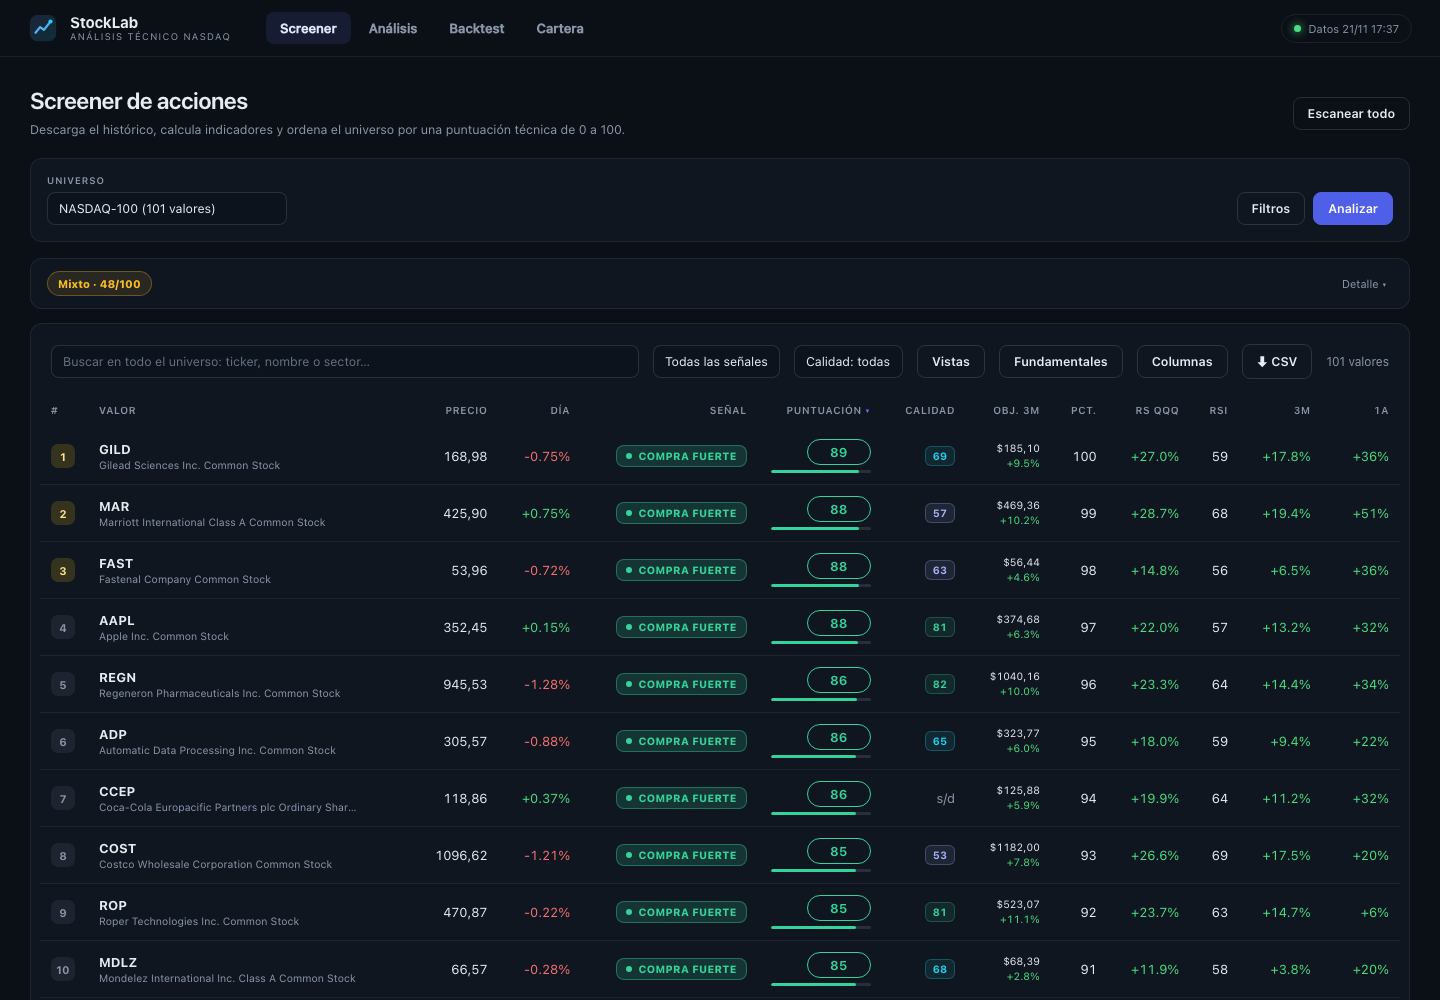
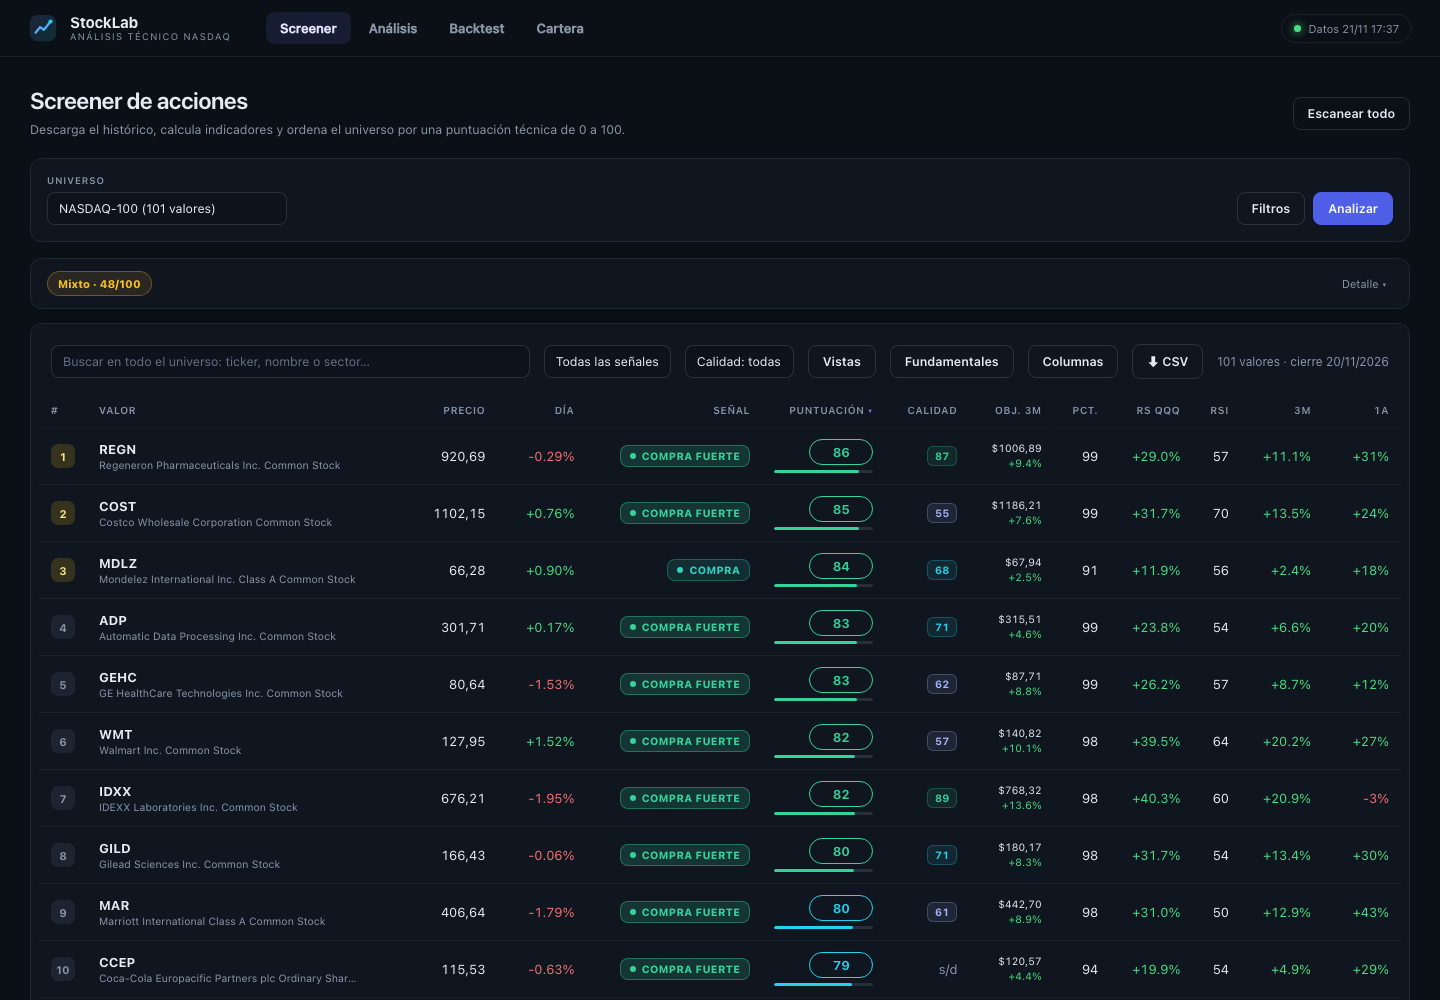
Screener: show latest cached price and date, not the old scan snapshot
- Overlay score_cache by symbol when serving latest/all/find/export rows
- Keep live scans untouched to avoid same-day rollback
- Show 'cierre DD/MM/YYYY' in the results toolbar and explain price/day columns
- Add regression test for stale-vs-fresh rows

diff --git a/web/app.js b/web/app.js
@@ -1095,16 +1095,21 @@
       }
     });
 
+    const asOf = rows.reduce(
+      (latest, row) => (row.as_of && row.as_of > latest ? row.as_of : latest),
+      ""
+    );
+    const asOfText = asOf ? ` · cierre ${fmt.date(asOf)}` : "";
     if (state.searching) {
       $("#resultsCount").textContent = "buscando en todo el universo…";
     } else if (state.search && state.searchTotal > rows.length) {
-      $("#resultsCount").textContent = `Top ${nf0.format(rows.length)} de ${nf0.format(state.searchTotal)} coincidencias`;
+      $("#resultsCount").textContent = `Top ${nf0.format(rows.length)} de ${nf0.format(state.searchTotal)} coincidencias${asOfText}`;
     } else if (!rows.length) {
       $("#resultsCount").textContent = "";
     } else if (!state.loadedAll && state.screenTotal > state.rows.length && !state.search) {
-      $("#resultsCount").textContent = `Top ${nf0.format(state.rows.length)} de ${nf0.format(state.screenTotal)}`;
+      $("#resultsCount").textContent = `Top ${nf0.format(state.rows.length)} de ${nf0.format(state.screenTotal)}${asOfText}`;
     } else {
-      $("#resultsCount").textContent = `${nf0.format(rows.length)} valores`;
+      $("#resultsCount").textContent = `${nf0.format(rows.length)} valores${asOfText}`;
     }
     $("#loadAll").classList.toggle(
       "hidden",

diff --git a/web/index.html b/web/index.html
@@ -189,8 +189,8 @@
             <tr>
               <th class="col-rank">#</th>
               <th data-sort="symbol">Valor</th>
-              <th data-sort="price" class="num">Precio</th>
-              <th data-sort="change_pct" class="num">Día</th>
+              <th data-sort="price" class="num" title="Último cierre disponible; no es precio en vivo">Precio</th>
+              <th data-sort="change_pct" class="num" title="Variación del último cierre frente al anterior">Día</th>
               <th data-sort="action_rank" class="num">Señal</th>
               <th data-sort="score" class="num sorted-desc">Puntuación</th>
               <th data-sort="quality" class="num" title="Score fundamental 0-100. — = sin enriquecer; s/d = sin datos">Calidad</th>

diff --git a/stocklab/screener.py b/stocklab/screener.py
@@ -554,16 +554,40 @@ class ScreenerService:
             if run.get("status") in ("done", "cancelled") and run["universe"] not in self._latest:
                 self._latest[run["universe"]] = run["id"]
 
+    def refresh(self, rows: list[dict[str, Any]]) -> list[dict[str, Any]]:
+        """Superpone la última caché por símbolo a una foto de escaneo antigua."""
+        if not rows:
+            return rows
+        cached = store.get_cached_scores([row.get("symbol") or "" for row in rows])
+        out: list[dict[str, Any]] = []
+        for row in rows:
+            fresh = cached.get((row.get("symbol") or "").upper())
+            current_as_of = row.get("as_of") or ""
+            fresh_as_of = (fresh or {}).get("as_of") or ""
+            if fresh and fresh_as_of >= current_as_of:
+                merged = dict(row)
+                merged.update(fresh)
+                merged["symbol"] = row.get("symbol") or fresh.get("symbol")
+                out.append(merged)
+            else:
+                out.append(row)
+        return out
+
     def latest(self, universe: str) -> dict[str, Any] | None:
         run_id = self._latest.get(universe)
         if not run_id:
             return None
         job = self.jobs.get(run_id)
         if job:
-            return job.snapshot()
+            snapshot = job.snapshot()
+            if job.status != "running":
+                snapshot["rows"] = self.refresh(snapshot["rows"])
+                snapshot["action_counts"] = action_counts(snapshot["rows"])
+            return snapshot
         run = self._restored.get(run_id)
         if not run:
             return None
+        rows = self.refresh(run["rows"][:500])
         return {
             "id": run["id"],
             "universe": run["universe"],
@@ -574,8 +598,8 @@ class ScreenerService:
             "errors": run["errors"],
             "created_at": run["created_at"],
             "finished_at": run["finished_at"],
-            "rows": run["rows"][:500],
-            "action_counts": action_counts(run["rows"]),
+            "rows": rows,
+            "action_counts": action_counts(rows),
             "regime": run.get("regime") or {},
             "elapsed": 0,
             "eta": 0,
@@ -645,7 +669,7 @@ class ScreenerService:
         job.total = run.get("total") or len(run.get("rows") or [])
         job.done = run.get("done") or len(run.get("rows") or [])
         job.errors = run.get("errors") or 0
-        job.rows = list(run.get("rows") or [])
+        job.rows = self.refresh(list(run.get("rows") or []))
         job.created_at = run.get("created_at") or job.created_at
         job.finished_at = run.get("finished_at")
         job.enrich_status = "idle"

diff --git a/stocklab/api.py b/stocklab/api.py
@@ -185,12 +185,12 @@ class Api:
             return {"rows": [], "total": 0, "q": ""}
         job = self.screener.get(job_id)
         if job:
-            rows = job.rows
+            rows = job.rows if job.status == "running" else self.screener.refresh(job.rows)
         else:
             run = store.get_screen_run(job_id)
             if not run:
                 raise ApiError("trabajo no encontrado", 404)
-            rows = run["rows"]
+            rows = self.screener.refresh(run["rows"])
         needle = query.lower()
         upper = query.upper()
 
@@ -224,11 +224,12 @@ class Api:
         job_id = (params.get("id", [""])[0] or "").strip()
         job = self.screener.get(job_id)
         if job:
-            return {"id": job.id, "rows": job.rows}
+            rows = job.rows if job.status == "running" else self.screener.refresh(job.rows)
+            return {"id": job.id, "rows": rows}
         run = store.get_screen_run(job_id)
         if not run:
             raise ApiError("trabajo no encontrado", 404)
-        return {"id": run["id"], "rows": run["rows"]}
+        return {"id": run["id"], "rows": self.screener.refresh(run["rows"])}
 
     def screen_status(self, params: dict[str, list[str]]) -> dict[str, Any]:
         job_id = (params.get("id", [""])[0] or "").strip()
@@ -252,18 +253,14 @@ class Api:
         if job_id:
             job = self.screener.get(job_id)
             if job:
-                rows = job.rows
+                rows = job.rows if job.status == "running" else self.screener.refresh(job.rows)
             else:
                 run = store.get_screen_run(job_id)
-                rows = run["rows"] if run else []
+                rows = self.screener.refresh(run["rows"]) if run else []
         else:
             universe = (params.get("universe", ["ndx"])[0] or "ndx").lower()
             latest = self.screener.latest(universe)
-            if latest:
-                run = store.get_screen_run(latest["id"])
-                rows = run["rows"] if run else latest.get("rows", [])
-            else:
-                rows = []
+            rows = latest.get("rows", []) if latest else []
 
         if not rows:
             raise ApiError("no hay resultados para exportar", 404)

diff --git a/tests/test_screener_refresh.py b/tests/test_screener_refresh.py
@@ -1,0 +1,60 @@
+"""El screener debe mostrar la última caché, no la foto del escaneo antiguo."""
+from __future__ import annotations
+
+import tempfile
+import unittest
+from pathlib import Path
+
+from stocklab import config, store
+from stocklab.screener import ScreenerService
+
+
+class TestScreenerRefresh(unittest.TestCase):
+    def setUp(self):
+        self.tmp = tempfile.TemporaryDirectory()
+        self._original = config.DB_PATH
+        config.DB_PATH = Path(self.tmp.name) / "test.db"
+        store._local.__dict__.pop("conn", None)
+        store.init()
+        self.service = ScreenerService(None, None)
+
+    def tearDown(self):
+        conn = getattr(store._local, "conn", None)
+        if conn is not None:
+            conn.close()
+        config.DB_PATH = self._original
+        self.tmp.cleanup()
+
+    def test_refresh_uses_newer_cache(self):
+        store.save_cached_score(
+            "AAPL",
+            "2026-11-20",
+            {"symbol": "AAPL", "price": 342.56, "change_pct": -0.019, "score": 77.7},
+        )
+        rows = [
+            {
+                "symbol": "AAPL",
+                "name": "Apple Inc.",
+                "price": 352.45,
+                "change_pct": 0.0015,
+                "as_of": "2026-11-18",
+            }
+        ]
+        refreshed = self.service.refresh(rows)
+        self.assertEqual(refreshed[0]["price"], 342.56)
+        self.assertEqual(refreshed[0]["as_of"], "2026-11-20")
+        self.assertEqual(refreshed[0]["name"], "Apple Inc.")  # conserva lo que no trae la caché
+
+    def test_refresh_keeps_newer_row(self):
+        store.save_cached_score(
+            "AAPL",
+            "2026-11-18",
+            {"symbol": "AAPL", "price": 352.45, "as_of": "2026-11-18"},
+        )
+        rows = [{"symbol": "AAPL", "price": 342.56, "as_of": "2026-11-20"}]
+        refreshed = self.service.refresh(rows)
+        self.assertEqual(refreshed[0]["price"], 342.56)
+
+
+if __name__ == "__main__":
+    unittest.main()

diff --git a/stocklab/store.py b/stocklab/store.py
@@ -521,6 +521,30 @@ def get_cached_score(symbol: str) -> dict[str, Any] | None:
     return {"as_of": row["as_of"], "row": payload, "age_hours": age}
 
 
+def get_cached_scores(symbols: list[str]) -> dict[str, dict[str, Any]]:
+    """Devuelve la última fila cacheada por símbolo (consulta por lotes)."""
+    unique = [s.upper() for s in dict.fromkeys(symbols) if s]
+    if not unique:
+        return {}
+    out: dict[str, dict[str, Any]] = {}
+    with _connect() as conn:
+        for start in range(0, len(unique), 400):
+            chunk = unique[start : start + 400]
+            placeholders = ",".join("?" for _ in chunk)
+            rows = conn.execute(
+                f"SELECT symbol, as_of, payload FROM score_cache WHERE symbol IN ({placeholders})",
+                chunk,
+            ).fetchall()
+            for row in rows:
+                try:
+                    payload = json.loads(row["payload"])
+                except json.JSONDecodeError:
+                    continue
+                payload.setdefault("as_of", row["as_of"])
+                out[row["symbol"].upper()] = payload
+    return out
+
+
 def save_cached_score(symbol: str, as_of: str, row: dict[str, Any]) -> None:
     with _write_lock, _connect() as conn:
         conn.execute(
